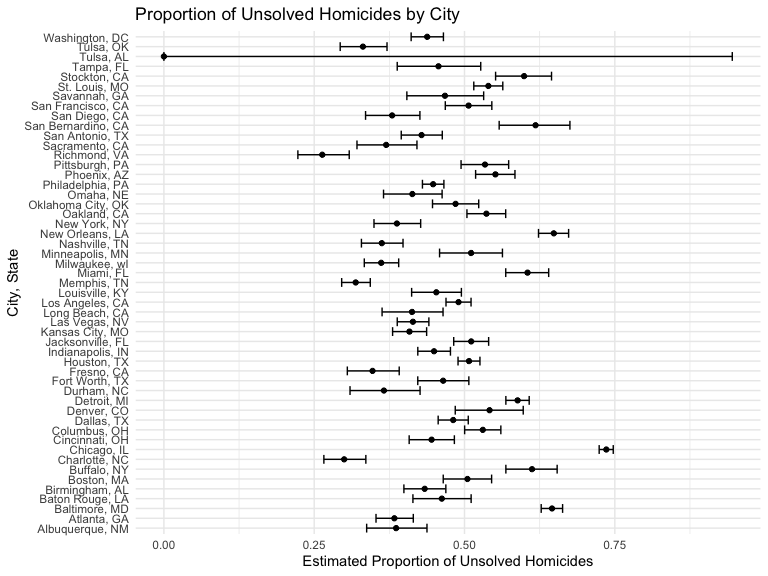
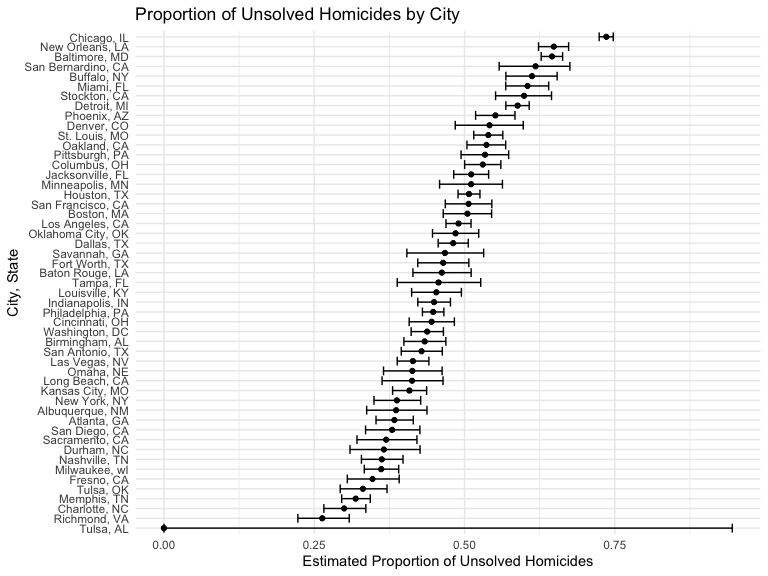
revision on problem 3

diff --git a/p8105_Homework5.md b/p8105_Homework5.md
@@ -201,69 +201,21 @@ total_vs_unsolve = homi_data2 |>
     Total_homicides = n(),
     Unsolved_homicides = sum(disposition %in% c("Closed without arrest", "Open/No arrest"))
   )
-
-knitr::kable(total_vs_unsolve, caption = "Total and Unsolved Homicides Across U.S. Cities")
 ```
-
-| city           | Total_homicides | Unsolved_homicides |
-|:---------------|----------------:|-------------------:|
-| Albuquerque    |             378 |                146 |
-| Atlanta        |             973 |                373 |
-| Baltimore      |            2827 |               1825 |
-| Baton Rouge    |             424 |                196 |
-| Birmingham     |             800 |                347 |
-| Boston         |             614 |                310 |
-| Buffalo        |             521 |                319 |
-| Charlotte      |             687 |                206 |
-| Chicago        |            5535 |               4073 |
-| Cincinnati     |             694 |                309 |
-| Columbus       |            1084 |                575 |
-| Dallas         |            1567 |                754 |
-| Denver         |             312 |                169 |
-| Detroit        |            2519 |               1482 |
-| Durham         |             276 |                101 |
-| Fort Worth     |             549 |                255 |
-| Fresno         |             487 |                169 |
-| Houston        |            2942 |               1493 |
-| Indianapolis   |            1322 |                594 |
-| Jacksonville   |            1168 |                597 |
-| Kansas City    |            1190 |                486 |
-| Las Vegas      |            1381 |                572 |
-| Long Beach     |             378 |                156 |
-| Los Angeles    |            2257 |               1106 |
-| Louisville     |             576 |                261 |
-| Memphis        |            1514 |                483 |
-| Miami          |             744 |                450 |
-| Milwaukee      |            1115 |                403 |
-| Minneapolis    |             366 |                187 |
-| Nashville      |             767 |                278 |
-| New Orleans    |            1434 |                930 |
-| New York       |             627 |                243 |
-| Oakland        |             947 |                508 |
-| Oklahoma City  |             672 |                326 |
-| Omaha          |             409 |                169 |
-| Philadelphia   |            3037 |               1360 |
-| Phoenix        |             914 |                504 |
-| Pittsburgh     |             631 |                337 |
-| Richmond       |             429 |                113 |
-| Sacramento     |             376 |                139 |
-| San Antonio    |             833 |                357 |
-| San Bernardino |             275 |                170 |
-| San Diego      |             461 |                175 |
-| San Francisco  |             663 |                336 |
-| Savannah       |             246 |                115 |
-| St. Louis      |            1677 |                905 |
-| Stockton       |             444 |                266 |
-| Tampa          |             208 |                 95 |
-| Tulsa          |             584 |                193 |
-| Washington     |            1345 |                589 |
-
-Total and Unsolved Homicides Across U.S. Cities
 
 The raw data contains 12 variables, which are uid, reported_date,
 victim_last, victim_first, victim_race, victim_age, victim_sex, city,
-state, lat, lon, disposition, and 52179 observations. For the tidy
-dataset, a new variable “city_state” was created.
+state, lat, lon, disposition, and 52179 observations.Each observation is
+uniquely identified by a uid and includes the reported date of the
+incident, as well as the victim’s full name, age, sex, and race.
+Location details such as latitude, longitude, city, and state are also
+provided, along with the final disposition of the case. In the tidy
+dataset, a new variable, city_state, was created by combining city and
+state to simplify geographic analysis.
+
+<br> Calculate the total and unsolved homicides in Baltimore, MD and
+perform a proportion test to estimate the proportion of unsolved
+homicides along with confidence intervals.
 
 ``` r
 Bal_MD_prop = homi_data2 |> 
@@ -273,14 +225,6 @@ Bal_MD_prop = homi_data2 |>
     Unsolved_Homicides_in_Baltimore_MD = sum(disposition %in% c("Closed without arrest", "Open/No arrest"))
   )
 
-knitr::kable(Bal_MD_prop)
-```
-
-| Total_Homicides_in_Baltimore_MD | Unsolved_Homicides_in_Baltimore_MD |
-|--------------------------------:|-----------------------------------:|
-|                            2827 |                               1825 |
-
-``` r
 Bal_MD_prop_res = prop.test(Bal_MD_prop$Unsolved_Homicides_in_Baltimore_MD, Bal_MD_prop$Total_Homicides_in_Baltimore_MD) |> 
   broom::tidy() |> 
   select(estimate,conf.low, conf.high)
@@ -293,6 +237,9 @@ knitr::kable(Bal_MD_prop_res, caption = "Proportion of Unsolved Homicides in Bal
 | 0.6455607 | 0.6275625 | 0.6631599 |
 
 Proportion of Unsolved Homicides in Baltimore, MD
+
+Extract both the proportion of unsolved homicides and the confidence
+interval for each of the cities.
 
 ``` r
 homicide_rate_by_cities = function(city_name) {
@@ -378,9 +325,14 @@ knitr::kable(homi_summary, caption = "Proportion of Unsolved Homicides Across U.
 
 Proportion of Unsolved Homicides Across U.S. Cities
 
+Create a plot displaying the estimated proportion of unsolved homicides
+across various U.S. cities, with each point representing the mean
+estimate and error bars indicating 95% confidence intervals.
+
 ``` r
-homi_rate_plot = 
-  ggplot(homi_summary, aes(x = city_state, y = estimate)) +
+homi_rate_plot = homi_summary |> 
+  mutate(city_state = reorder(city_state, estimate)) |> 
+  ggplot(aes(x = city_state, y = estimate)) +
   geom_point() +
   geom_errorbar(aes(ymin = conf.low, ymax = conf.high)) +
   labs(
@@ -394,7 +346,3 @@ homi_rate_plot
 ```
 
 <img src="p8105_Homework5_files/figure-gfm/unnamed-chunk-9-1.png" width="90%" />
-
-The plot displays the estimated proportion of unsolved homicides across
-various U.S. cities, with each point representing the mean estimate and
-error bars indicating confidence intervals.
